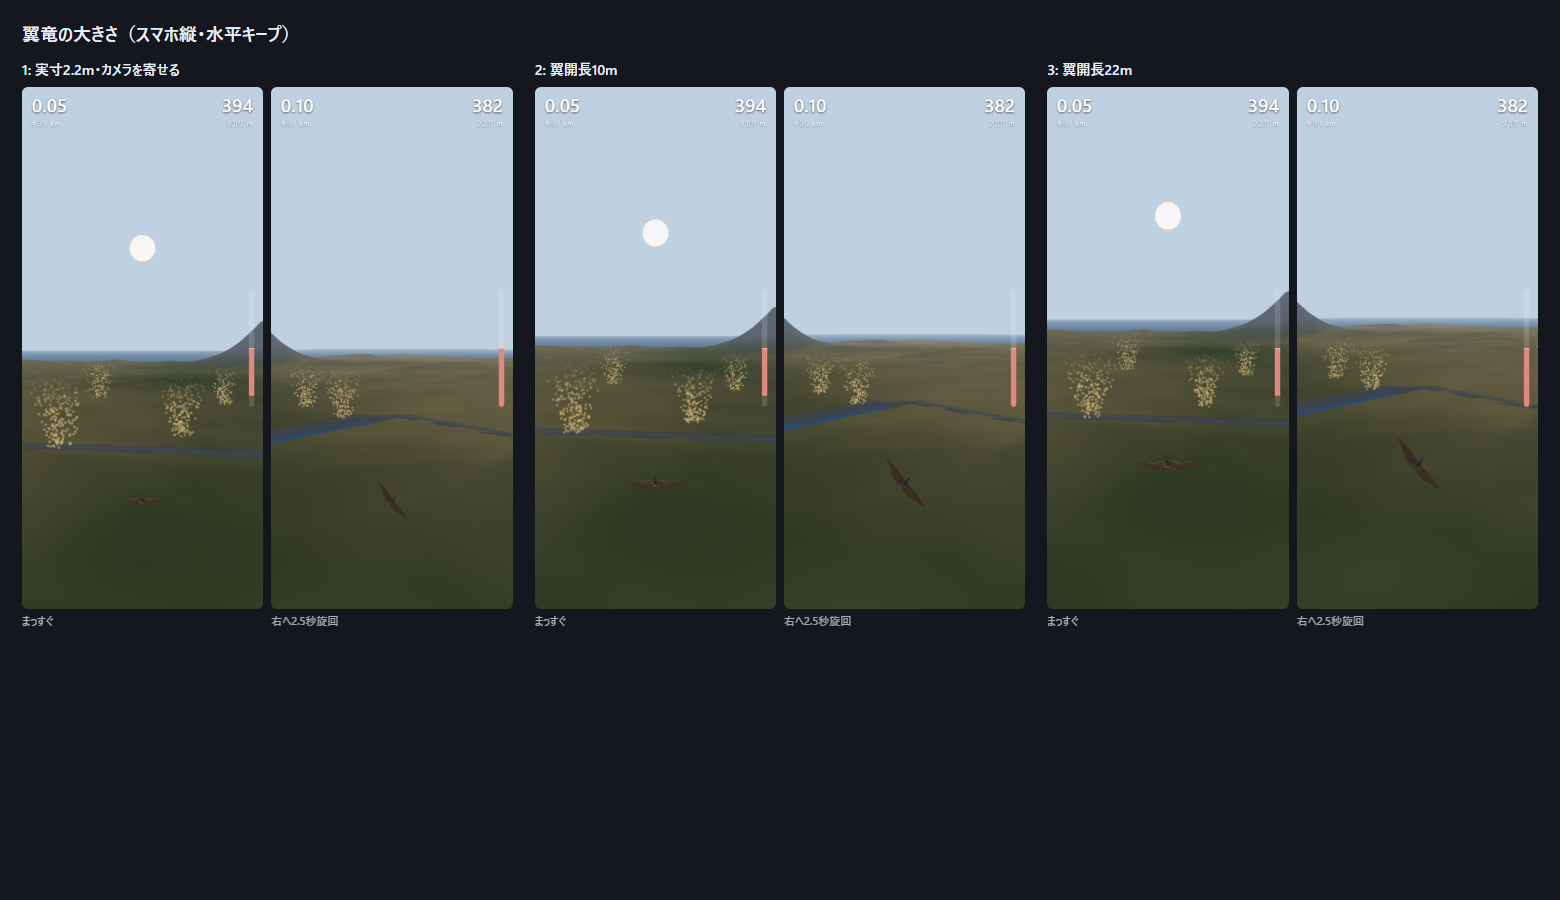
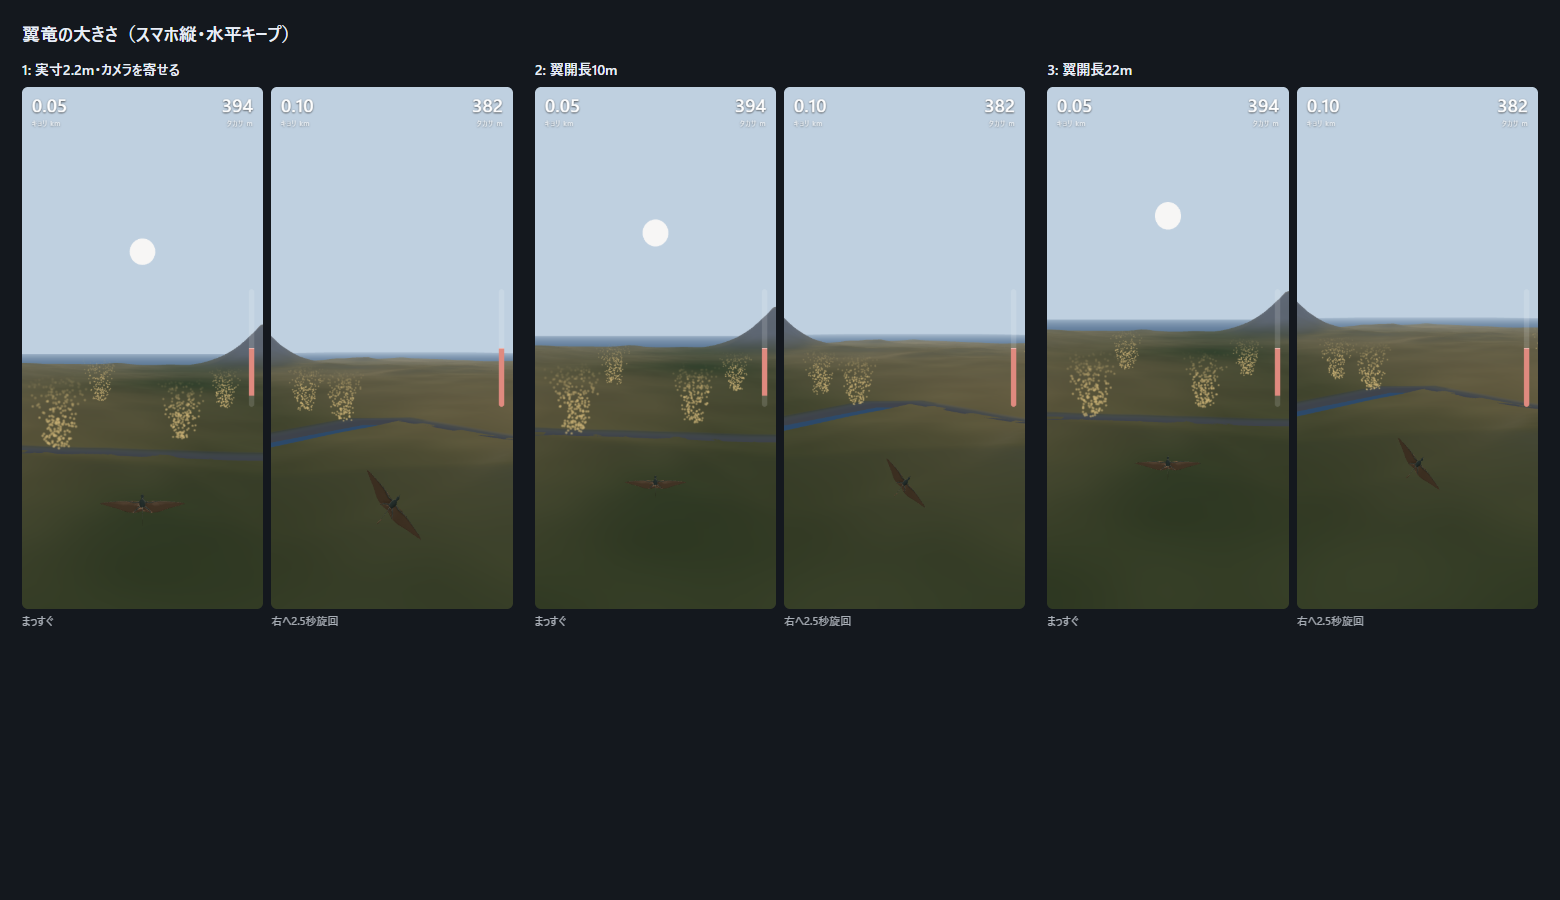
実寸の翼竜でカメラをもっと寄せた(後ろ18m -> 約10m)。?camk= で距離だけ試せる
所長: 何が変わったのか分からない、1でもっとカメラを寄せたい。
前回の3候補はカメラ距離も一緒に拡大していたので、画面上の大きさがほぼ同じだった。
翼の幅: 18m 66px / 10m 124px / 6m 200px

diff --git a/src/main.js b/src/main.js
@@ -34,7 +34,9 @@ if (WORLD === 'ridge') {
 const terrain = new Terrain(SEED);
 const field = new ThermalField(terrain, SEED);
 const SIZE_KEY = SIZES[q.get('size')] ? q.get('size') : '2';   // 見せる大きさの候補(?size=1|2|3)
-const view = new View(el('app'), terrain, field, camOf(CAM_KEY), SIZES[SIZE_KEY]);
+const camk = Number(q.get('camk'));                              // 調整用: ?camk=0.05 でカメラの距離の倍率だけ上書き
+const SIZE = q.has('camk') && camk > 0 ? { ...SIZES[SIZE_KEY], cam: camk } : SIZES[SIZE_KEY];
+const view = new View(el('app'), terrain, field, camOf(CAM_KEY), SIZE);
 if (!q.has('box')) view.loadModel(import.meta.env.BASE_URL + 'models/rh02.glb');   // ?box で灰色の箱のまま
 
 // スタート画面のカメラ選択。選んだものは次回も使う

diff --git a/src/scene.js b/src/scene.js
@@ -13,7 +13,7 @@ const SX = -1;
 // 翼竜の見せる大きさ。RH02は実寸で翼開長2.2m。飛び方の計算は変えず、見た目とカメラの距離だけ変える
 //   scale: モデルの拡大率 / cam: カメラの距離の倍率
 export const SIZES = {
-  1: { name: '実寸2.2m・カメラを寄せる', scale: 1.0, cam: 0.15 },
+  1: { name: '実寸2.2m・カメラを寄せる', scale: 1.0, cam: 0.08 },   // 0.15(後ろ18m)は「もっと寄せて」
   2: { name: '翼開長10m',               scale: 4.6, cam: 0.5 },
   3: { name: '翼開長22m(灰色の箱と同じ)', scale: 10,  cam: 1.0 },
 };
